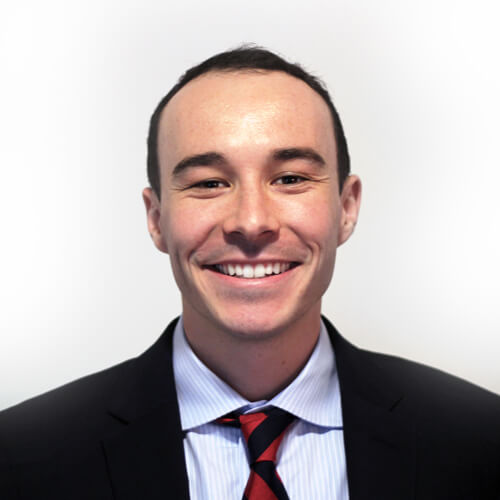
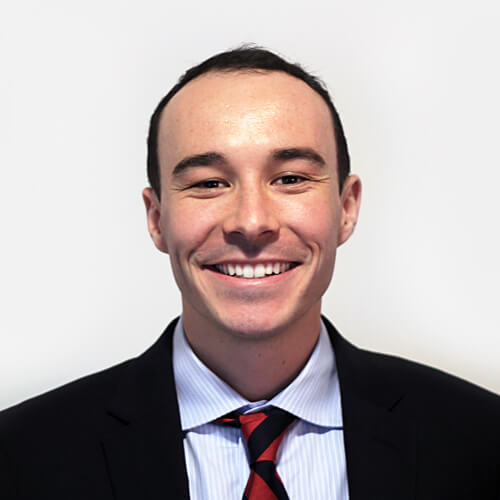
small tweaks to styles, copy, and updated team images

diff --git a/index.html b/index.html
@@ -14,6 +14,10 @@
 		<!-- Required meta tags -->
 		<meta charset="utf-8">
 		<meta name="viewport" content="width=device-width, initial-scale=1, shrink-to-fit=no">
+		<meta property="og:image" content="https://avergroupllc.com/img/thumbnail.png">
+		<meta property="og:image:type" content="image/png">
+		<meta property="og:image:width" content="1024">
+		<meta property="og:image:height" content="1024">
 
 		<!-- Bootstrap CSS -->
 		<link href="https://fonts.googleapis.com/css?family=Roboto:400,700|Titillium+Web:600" rel="stylesheet">
@@ -127,8 +131,8 @@
 						</div>
 						<div class="col-lg-4 col-md-6 col-sm-12 text-center">
 							<span>
-								<h4>Moderate Risk</h4>
-								<p>Conservative value investing in a highly dynamic market.</p>
+								<h4>Verified Accounting</h4>
+								<p>Accounting practices are verified by a third party.</p>
 							</span>
 						</div>
 						<div class="col-lg-4 col-md-6 col-sm-12 text-center">
@@ -140,7 +144,7 @@
 						<div class="col-lg-4 col-md-6 col-sm-12 text-center">
 							<span>
 								<h4>Focused on Security</h4>
-								<p>Strictly implementing industry best practices.</p>
+								<p>Securing your funds through industry best practices.</p>
 							</span>
 						</div>
 					</div>
@@ -169,7 +173,7 @@
 							<blockquote cite="https://www.youtube.com/watch?v=GGberGnxiJk">
 								<p>This is not the internet bubble, this is a lot more like emerging markets becoming an asset class.</p>
 								<footer>
-									<img width="50" height="50" src="https://pbs.twimg.com/profile_images/510834353283145729/CtFjYadW_400x400.jpeg" />
+									<img width="60" height="60" src="https://pbs.twimg.com/profile_images/510834353283145729/CtFjYadW_400x400.jpeg" />
 									<div>
 										Thomas Lee
 										<small>
@@ -313,7 +317,7 @@
 							<h5>CTO | Co-Founder</h5>
 						</div>
 						<div class="col-lg-6 col-md-8 col-sm-12">
-							<p>Sergey Chernata is the technical co-founder at Aver Group LLC. He is a VP of Technology at a nation-wide consumer goods company. With over 10 years of professional experience and multiple degrees, Sergey builds businesses through code and best technology practices. Sergey mined Bitcoin in 2013 and managed his personal cryptoasset portfolio, reaching overall return on investment of 50x.</p>
+							<p>Sergey Chernata is the technical co-founder at Aver Group LLC. He is a VP of Technology at a nation-wide consumer goods company. With over 10 years of professional experience and multiple degrees, Sergey builds businesses through code and best technology practices. Sergey mined Bitcoin in 2013 and managed his personal cryptoasset portfolio, reaching overall return on investment ratio of 25x.</p>
 						</div>
 					</div>
 					<div class="row animate fade-in profile">

diff --git a/css/main.css b/css/main.css
@@ -176,17 +176,21 @@ main {
     position: absolute;
     left: -3rem;
     top: -2rem;
-    font-size: 4rem;
+    font-size: 4.5rem;
+    font-family: Georgia, serif;
+    color: #36a63f;
 }
 #what_is_crypto blockquote p::after{
     content: '\201D';
     position: absolute;
     right: -3rem;
     bottom: -4rem;
-    font-size: 4rem;
+    font-size: 4.5rem;
+    font-family: Georgia, serif;
+    color: #36a63f;
 }
-#what_is_crypto blockquote{margin: 4rem 0 0 0; color: #fff1ad; overflow: hidden;}
-#what_is_crypto blockquote img{border-radius: 25px; display: inline-block; vertical-align: baseline; margin-right: 1rem;}
+#what_is_crypto blockquote{margin: 4rem 0 0 0; color: #fff1ad;}
+#what_is_crypto blockquote img{border-radius: 30px; display: inline-block; vertical-align: baseline; margin-right: 1rem;}
 #what_is_crypto blockquote div{display: inline-block; text-align: left;}
 #what_is_crypto blockquote small{display: block;}
 #what_is_crypto blockquote p{font-size: 2rem;}
@@ -244,6 +248,7 @@ main {
     color: #fff;
     font-size: 1.4rem;
     width: 13rem;
+    border-radius: 4rem;
 }
 #paper a.btn span{
     display: block;
@@ -411,6 +416,8 @@ footer .copyright{
     .navbar-nav{padding-top: 1.5rem; margin-top: 1.5rem; border-top: 1px solid rgba(255,255,255,0.25);}
     .nav-item{margin-bottom: 1.5rem;}
     .nav-link{text-align: center;}
+
+    #what_is_crypto blockquote{overflow: hidden;}
 
     #paper a.btn {
         display: block;
